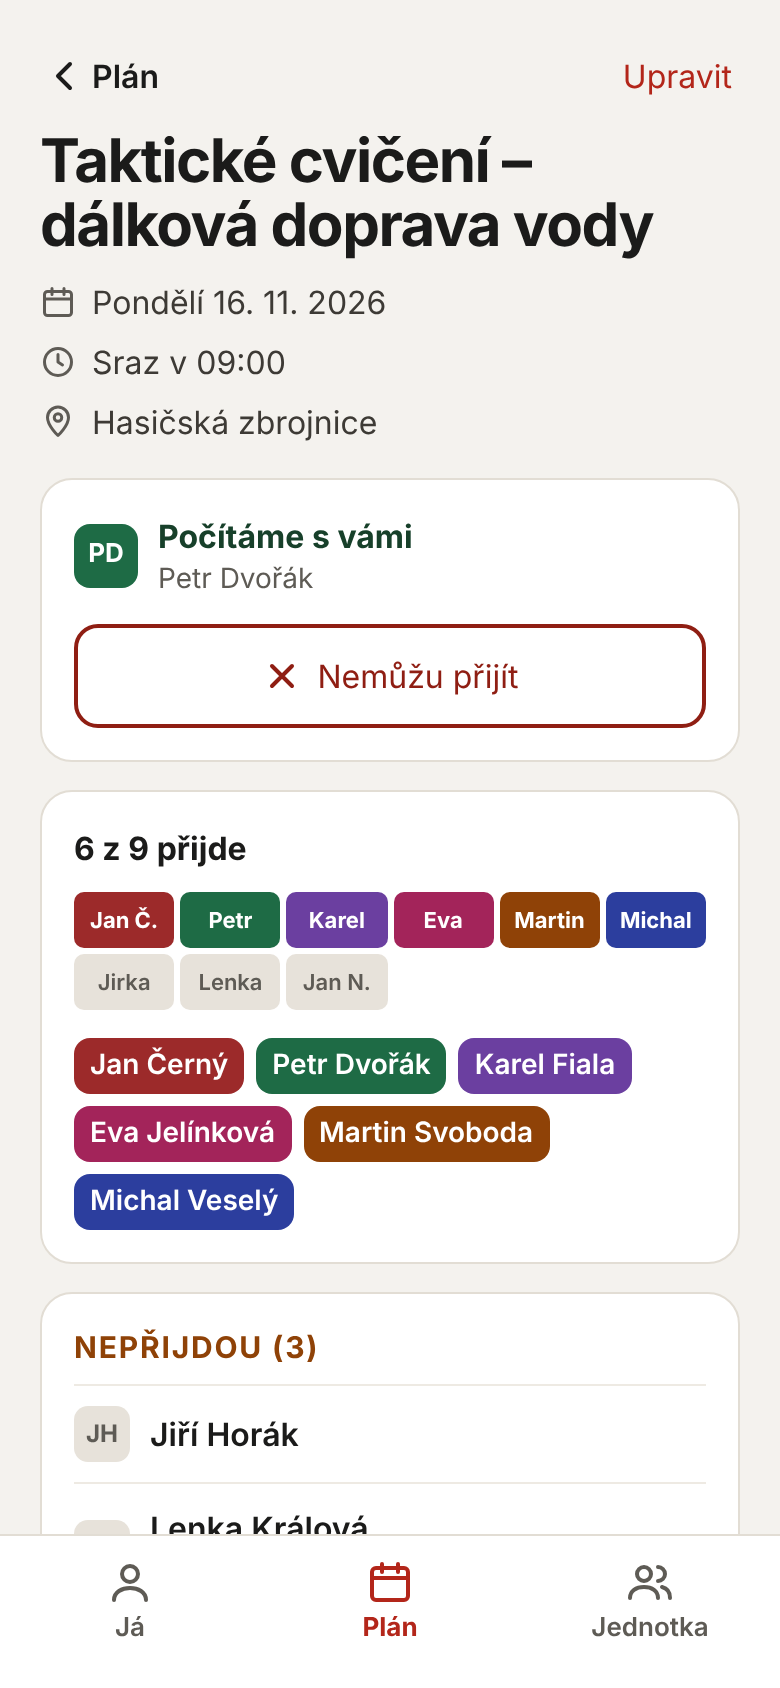
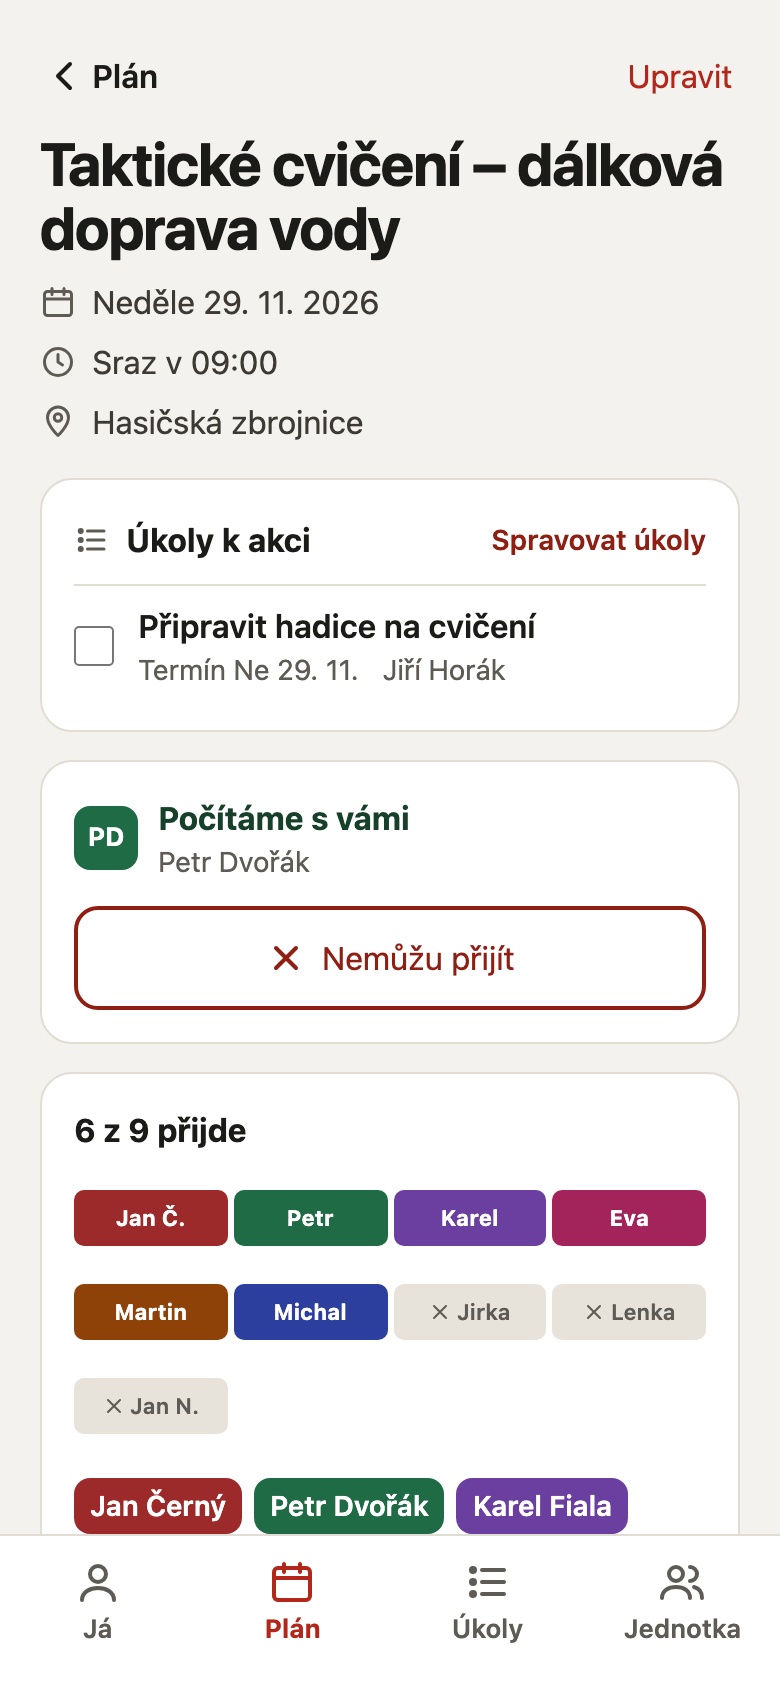
Show tasks on their due dates

diff --git a/src/routes/akce/[id]/+page.svelte b/src/routes/akce/[id]/+page.svelte
@@ -5,8 +5,6 @@
 	import { access } from '#lib/access.svelte.js';
 	import { contrastText, initials } from '#lib/colors.js';
 	import { data } from '#lib/data.svelte.js';
-	import type { Todo } from '#lib/todo.js';
-	import { toggleTodo } from '#lib/todo-actions.js';
 	import { formatLong, OPEN_END, formatShort, todayKey } from '#lib/dates.js';
 	import { describe, lastDay, nextAfter, WEEKLY } from '#lib/repeat.js';
 	import { toasts } from '#lib/toast.svelte.js';
@@ -14,6 +12,7 @@
 	import { toggleMemberDay } from '#lib/toggleDay.js';
 	import EventForm from '#lib/components/EventForm.svelte';
 	import Icon from '#lib/components/Icon.svelte';
+	import TodoChecklist from '#lib/components/TodoChecklist.svelte';
 
 	const ev = $derived(data.event(page.params.id ?? ''));
 	const activityTodos = $derived(
@@ -60,19 +59,6 @@
 		(editOccurrence ? occurrenceButton ?? editButton : editButton)?.focus();
 	}
 	let busy = $state(false);
-	let pendingTodos = $state<Record<string, boolean>>({});
-
-	async function setTodoCompleted(todo: Todo, checkbox: HTMLInputElement) {
-		const completed = checkbox.checked;
-		pendingTodos[todo.id] = completed;
-		try {
-			if (!await toggleTodo(todo, completed)) checkbox.checked = todo.completed;
-		} finally {
-			delete pendingTodos[todo.id];
-			await tick();
-			if (document.activeElement === document.body && checkbox.isConnected) checkbox.focus();
-		}
-	}
 
 	async function cannotCome() {
 		if (!ev || !me) return;
@@ -235,47 +221,12 @@
 		</section>
 
 		<div class="flex flex-col gap-3.5 px-5 pb-8">
-			<section aria-labelledby="activity-todos-heading" class="rounded-2xl border border-line bg-surface px-4 pt-2 pb-3">
-				<div class="flex flex-wrap items-center justify-between gap-x-3">
-					<h2 id="activity-todos-heading" class="flex items-center gap-2 font-bold">
-						<Icon name="list" size={18} class="text-muted" /> Úkoly k akci
-					</h2>
-					<a href="/ukoly?akce={encodeURIComponent(ev.id)}"
-						class="inline-flex min-h-11 items-center text-sm font-semibold text-accent-dark">
-						Spravovat úkoly
-					</a>
-				</div>
-				{#if data.todosStatus === 'loading'}
-					<p role="status" class="text-sm text-muted">Načítám úkoly…</p>
-				{:else if data.todosStatus === 'error'}
-					<p role="status" class="text-sm text-accent-dark">Úkoly se nepodařilo načíst.</p>
-				{:else if !activityTodos.length}
-					<p class="text-sm text-muted">K této akci zatím nejsou žádné úkoly.</p>
-				{:else}
-					<ul class="divide-y divide-line border-t border-line">
-						{#each activityTodos as todo (todo.id)}
-							{@const completed = pendingTodos[todo.id] ?? todo.completed}
-							{@const member = data.allMembers.find((member) => member.id === todo.assigneeId)}
-							<li>
-								<label class="flex min-h-12 items-center gap-3 py-2">
-									<input type="checkbox" checked={completed} disabled={todo.id in pendingTodos}
-										class="size-5 shrink-0 accent-accent-dark disabled:opacity-60"
-										onchange={(event) => setTodoCompleted(todo, event.currentTarget)} />
-									<span class="min-w-0">
-										<span class="block break-words font-semibold" class:line-through={completed} class:text-muted={completed}>{todo.title}</span>
-										{#if todo.dueDate || todo.assigneeId}
-											<span class="flex flex-wrap gap-x-3 text-sm text-muted">
-												{#if todo.dueDate}<span>Termín {formatShort(todo.dueDate)}</span>{/if}
-												{#if todo.assigneeId}<span>{member?.name ?? 'Bývalý člen'}</span>{/if}
-											</span>
-										{/if}
-									</span>
-								</label>
-							</li>
-						{/each}
-					</ul>
-				{/if}
-			</section>
+			<TodoChecklist
+				title="Úkoly k akci"
+				href="/ukoly?akce={encodeURIComponent(ev.id)}"
+				empty="K této akci zatím nejsou žádné úkoly."
+				todos={activityTodos}
+			/>
 
 			{#if me && !past}
 				{#if !myAbsence}

diff --git a/src/lib/components/TodoChecklist.svelte b/src/lib/components/TodoChecklist.svelte
@@ -1,0 +1,69 @@
+<script lang="ts">
+	import { data } from '#lib/data.svelte.js';
+	import { formatShort } from '#lib/dates.js';
+	import { toggleTodo } from '#lib/todo-actions.js';
+	import type { Todo } from '#lib/todo.js';
+	import Icon from './Icon.svelte';
+
+	let { title, heading = 'h2', href, empty, todos }: {
+		title: string;
+		heading?: 'h2' | 'h3';
+		href: string;
+		empty: string;
+		todos: readonly Todo[];
+	} = $props();
+
+	const headingId = $props.id();
+	let pending = $state<Record<string, boolean>>({});
+
+	async function setCompleted(todo: Todo, checkbox: HTMLInputElement) {
+		const completed = checkbox.checked;
+		pending[todo.id] = completed;
+		try {
+			if (!await toggleTodo(todo, completed)) checkbox.checked = todo.completed;
+		} finally {
+			delete pending[todo.id];
+		}
+	}
+</script>
+
+<section aria-labelledby={headingId} class="rounded-2xl border border-line bg-surface px-4 pt-2 pb-3">
+	<div class="flex flex-wrap items-center justify-between gap-x-3">
+		<svelte:element this={heading} id={headingId} class="flex items-center gap-2 font-bold">
+			<Icon name="list" size={18} class="text-muted" /> {title}
+		</svelte:element>
+		<a {href} class="inline-flex min-h-11 items-center text-sm font-semibold text-accent-dark">
+			Spravovat úkoly
+		</a>
+	</div>
+	{#if data.todosStatus === 'loading'}
+		<p role="status" class="text-sm text-muted">Načítám úkoly…</p>
+	{:else if data.todosStatus === 'error'}
+		<p role="status" class="text-sm text-accent-dark">Úkoly se nepodařilo načíst.</p>
+	{:else if !todos.length}
+		<p class="text-sm text-muted">{empty}</p>
+	{:else}
+		<ul class="divide-y divide-line border-t border-line">
+			{#each todos as todo (todo.id)}
+				{@const completed = pending[todo.id] ?? todo.completed}
+				{@const member = data.allMembers.find((member) => member.id === todo.assigneeId)}
+				<li>
+					<label class="flex min-h-12 items-center gap-3 py-2">
+						<input type="checkbox" checked={completed} disabled={todo.id in pending}
+							class="size-5 shrink-0 accent-accent-dark disabled:opacity-60"
+							onchange={(event) => setCompleted(todo, event.currentTarget)} />
+						<span class="min-w-0">
+							<span class="block break-words font-semibold" class:line-through={completed} class:text-muted={completed}>{todo.title}</span>
+							{#if todo.dueDate || todo.assigneeId}
+								<span class="flex flex-wrap gap-x-3 text-sm text-muted">
+									{#if todo.dueDate}<span>Termín {formatShort(todo.dueDate)}</span>{/if}
+									{#if todo.assigneeId}<span>{member?.name ?? 'Bývalý člen'}</span>{/if}
+								</span>
+							{/if}
+						</span>
+					</label>
+				</li>
+			{/each}
+		</ul>
+	{/if}
+</section>

diff --git a/src/routes/+page.svelte b/src/routes/+page.svelte
@@ -387,6 +387,7 @@
 {#snippet dayRow(key: DateKey)}
 	{@const av = data.availability(key)}
 	{@const evs = data.eventsOn(key)}
+	{@const todos = data.todosOn(key)}
 	{@const hol = holiday(key)}
 	{@const wd = weekdayIndex(key)}
 	{@const red = wd >= 5 || !!hol}
@@ -405,7 +406,9 @@
 		<button
 			type="button"
 			aria-expanded={key === selected}
-			aria-label="{desktop ? DOW_LONG[wd] : DOW_SHORT[wd]} {formatDayMonth(key)}: může {av.available.length} z {av.total}. Otevřít den."
+			aria-label="{desktop ? DOW_LONG[wd] : DOW_SHORT[wd]} {formatDayMonth(key)}: může {av.available.length} z {av.total}.{todos.length
+				? ` Úkoly: ${todos.map((todo) => todo.title).join(', ')}.`
+				: ''} Otevřít den."
 			style:scroll-margin-block-start="var(--stick-day)"
 			class="flex min-h-11 w-10 shrink-0 flex-col items-center lg:w-[6.25rem] lg:flex-row lg:gap-2">
 			<span
@@ -447,6 +450,12 @@
 								><span class="font-semibold">{ev.title}</span
 								>{#if ev.place}<span class="font-normal">{` · ${ev.place}`}</span>{/if}</span
 							>
+						</span>
+					{/each}
+					{#each todos as todo (todo.id)}
+						<span class="flex max-w-full items-center gap-2 self-start rounded-lg border border-line bg-ground px-2.5 py-1 text-ink-2">
+							<Icon name="list" size={16} />
+							<span class="line-clamp-2 text-sm leading-snug font-semibold" class:line-through={todo.completed}>{todo.title}</span>
 						</span>
 					{/each}
 				</span>
@@ -623,6 +632,7 @@
 				<span class="flex items-center gap-1.5"
 					><span class="size-3.5 rounded-full border border-line bg-weekend"></span>víkend a svátek</span
 				>
+				<span class="flex items-center gap-1.5"><Icon name="list" size={16} /> úkoly</span>
 			{:else}
 				<span class="flex items-center gap-1.5"><span class="size-3.5 rounded bg-[#1F4E8C]"></span>může</span>
 				<span class="flex items-center gap-1.5"><span class="size-3.5 rounded bg-off"></span>nepřítomen</span>

diff --git a/src/lib/data.svelte.ts b/src/lib/data.svelte.ts
@@ -258,6 +258,19 @@ class Data {
 	absences = $state<Absence[]>([]);
 	todos = $state<Todo[]>([]);
 	todosStatus = $state<'loading' | 'ready' | 'error'>('loading');
+	#todosByDay = $derived.by(() => {
+		const byDay = new Map<DateKey, Todo[]>();
+		const sorted = [...this.todos].sort((a, b) => a.title.localeCompare(b.title, 'cs'));
+		for (const todo of sorted) {
+			for (const day of new Set([todo.date, todo.dueDate])) {
+				if (!day) continue;
+				const items = byDay.get(day);
+				if (items) items.push(todo);
+				else byDay.set(day, [todo]);
+			}
+		}
+		return byDay;
+	});
 	/** Events stored one by one (one-off, or a repeat edited on its own). */
 	stored = $state<Event[]>([]);
 	series = $state<Series[]>([]);
@@ -334,10 +347,12 @@ class Data {
 		absences: Absence[];
 		events: Event[];
 		series: Series[];
+		todos: Todo[];
 		places?: string[];
 		defaultPlace?: string;
 	}) {
 		this.#demo = true;
+		this.todos = sample.todos;
 		this.todosStatus = 'ready';
 		this.defaultPlaces = sample.places ?? [];
 		this.defaultPlace = sample.defaultPlace ?? '';
@@ -524,6 +539,10 @@ class Data {
 			...this.stored.filter((e) => e.date === day),
 			...this.series.filter((s) => occurs(s, day)).map((s) => occurrence(s, day))
 		].sort(byDateTime);
+	}
+
+	todosOn(day: DateKey): readonly Todo[] {
+		return this.#todosByDay.get(day) ?? [];
 	}
 
 	/** The weekly repeat `ev` belongs to, if it is still part of it. */

diff --git a/src/lib/components/CalendarView.svelte b/src/lib/components/CalendarView.svelte
@@ -76,6 +76,7 @@
 {#snippet day(key: DateKey)}
 	{@const av = data.availability(key)}
 	{@const evs = data.eventsOn(key)}
+	{@const todos = data.todosOn(key)}
 	{@const hol = holiday(key)}
 	{@const wd = weekdayIndex(key)}
 	{@const pct = av.total ? (av.available.length / av.total) * 100 : 0}
@@ -141,8 +142,19 @@
 				{evs.length}<span class="sr-only">, akce: {evs.map((event) => event.title).join(', ')}</span>
 			</span>
 		{/if}
+		{#if todos.length}
+			<span class="flex items-center gap-0.5 text-xs font-semibold text-ink-2 lg:hidden" aria-hidden="true">
+				<Icon name="list" size={12} /> {todos.length}
+			</span>
+			<span class="hidden w-full items-center gap-1 rounded-md bg-ground px-1 text-left text-xs font-semibold text-ink-2 lg:flex" aria-hidden="true">
+				<Icon name="list" size={12} />
+				<span class="min-w-0 flex-1 truncate" class:line-through={todos[0].completed}>{todos[0].title}</span>
+				{#if todos.length > 1}<span>+{todos.length - 1}</span>{/if}
+			</span>
+		{/if}
 		<span class="sr-only">
 			{DOW_LONG[wd]} {formatDayMonth(key)}. Dostupní členové: {av.available.length} z {av.total}.
+			{#if todos.length}Úkoly: {todos.map((todo) => todo.title).join(', ')}.{/if}
 		</span>
 	</button>
 {/snippet}

diff --git a/src/lib/demo.ts b/src/lib/demo.ts
@@ -4,6 +4,7 @@
 import { PALETTE } from './colors.js';
 import type { Absence, Event, Member, Series } from './data.svelte.js';
 import { addDays, OPEN_END, todayKey } from './dates.js';
+import type { Todo } from './todo.js';
 
 export function isDemo(url: URL): boolean {
 	return import.meta.env.DEV && url.searchParams.has('demo');
@@ -14,6 +15,7 @@ export function demoData(count = 10): {
 	absences: Absence[];
 	events: Event[];
 	series: Series[];
+	todos: Todo[];
 	places: string[];
 	defaultPlace: string;
 } {
@@ -92,6 +94,10 @@ export function demoData(count = 10): {
 			repeat: { freq: 'month', every: 1, nth: 1, kind: 4 }
 		}
 	];
+	const todos: Todo[] = [
+		{ id: 't1', title: 'Zkontrolovat lékárničku', date: null, eventId: null, dueDate: d(0), assigneeId: 'm2', completed: false },
+		{ id: 't2', title: 'Připravit hadice na cvičení', date: null, eventId: 'e1', dueDate: d(10), assigneeId: 'm4', completed: false }
+	];
 	const places = ['Hasičská zbrojnice', 'Klubovna', 'Hřiště u školy'];
-	return { members, absences, events, series, places, defaultPlace: places[0] };
+	return { members, absences, events, series, todos, places, defaultPlace: places[0] };
 }

diff --git a/src/lib/components/DayPanel.svelte b/src/lib/components/DayPanel.svelte
@@ -8,6 +8,7 @@
 	import AvailabilityBar from './AvailabilityBar.svelte';
 	import EventForm, { type SaveOptions } from './EventForm.svelte';
 	import Icon from './Icon.svelte';
+	import TodoChecklist from './TodoChecklist.svelte';
 
 	let { day, onclose }: { day: DateKey; onclose: () => void } = $props();
 
@@ -60,11 +61,6 @@
 			<Icon name="x" size={22} stroke={2.2} />
 		</button>
 	</header>
-
-	<a class="flex min-h-11 items-center gap-2 self-start font-semibold text-accent-dark"
-		href="/ukoly?den={day}">
-		<Icon name="list" size={18} /> Úkoly na tento den
-	</a>
 
 	<section class="flex flex-col gap-2">
 		<span class="text-[1.0625rem] font-bold">{avail.available.length} z {total} může</span>
@@ -120,6 +116,14 @@
 			{/each}
 		</section>
 	{/if}
+
+	<TodoChecklist
+		title="Úkoly na tento den"
+		heading="h3"
+		href="/ukoly?den={day}"
+		empty="Na tento den nejsou žádné úkoly."
+		todos={data.todosOn(day)}
+	/>
 
 	<section class="flex flex-col gap-3 border-t border-line-soft pt-3.5">
 		<h3 class="text-[1.0625rem] font-bold">Nová akce v tento den</h3>

diff --git a/src/routes/ukoly/+page.svelte b/src/routes/ukoly/+page.svelte
@@ -72,10 +72,12 @@
 			? [selected, ...events]
 			: events;
 	});
+	const scopedTodos = $derived(
+		eventId ? data.todos.filter((todo) => todo.eventId === eventId) : date ? data.todosOn(date) : data.todos
+	);
 	const visible = $derived(
-		data.todos
-			.filter((todo) => todo.completed === completed &&
-				(eventId ? todo.eventId === eventId : date ? todo.date === date : true))
+		scopedTodos
+			.filter((todo) => todo.completed === completed)
 			.sort((a, b) =>
 				(a.dueDate ?? '9999-12-31').localeCompare(b.dueDate ?? '9999-12-31') ||
 				a.title.localeCompare(b.title, 'cs'))

diff --git a/README.md b/README.md
@@ -60,10 +60,11 @@ mají červené kolečko; když je v jeden den víc akcí, kolečko se rozdělí
 akce má svou barvu (stejná barevná tečka je u názvu akce v přehledu dne). Dnešek je
 v rámečku. Víkendy a státní svátky mají podbarvený
 vnitřek kroužku a červené číslo, na počítači je u svátku i jeho název. Klepnutím na den se otevře jeho přehled.
-Telefon si zvolené zobrazení zapamatuje.
+U dnů s úkoly je ikona seznamu. Telefon si zvolené zobrazení zapamatuje.
 
 **Den.** Klepnutím na den se otevře přehled: kdo může, kdo ne a proč (např.
 „Dovolená“). Tady jde jedním tlačítkem zapsat „Tento den nemůžu“ a založit novou akci.
+Úkoly můžete označit za hotové přímo v přehledu dne i v detailu akce.
 
 <p>
   <img src="docs/screenshots/telefon-den.png" width="260" alt="Detail dne">
@@ -78,7 +79,8 @@ každý měsíc, nebo podle vlastního pravidla (např. každý první pátek v 
 opakované akce jde přesunout nebo zrušit zvlášť. U akce je vidět, kdo přijde a kdo ne,
 a každý může klepnout na „Nemůžu přijít“.
 
-**Úkoly.** Úkolu můžete přiřadit termín, řešitele, den nebo akci. V poli
+**Úkoly.** Úkolu můžete přiřadit termín, řešitele, den nebo akci. V plánu se úkol
+zobrazí u termínu dokončení i u přiřazeného dne. V poli
 **Opakování úkolu** vyberte **Podle kalendáře** pro stejná pravidla jako u
 nepřítomností (např. každý první pátek v měsíci). Nebo vyberte **Po dokončení**
 a zadejte odstup, třeba 2 roky od poslední výměny oleje. Z každé řady je otevřený

diff --git a/AGENTS.md b/AGENTS.md
@@ -1,0 +1,5 @@
+# Repository instructions
+
+- At the start of each task in this repository, run `git fetch --prune origin` before editing. Check the working tree and build new work on the freshly fetched target branch. Use a separate worktree when needed to preserve existing changes.
+- For code or documentation changes, verify the work, commit it on a feature branch, push the branch, and open a pull request by default. If the task already has a pull request, update it. Follow any explicit instruction from the user to keep the work local.
+- Follow the project guidance in `CLAUDE.md` and `HANDOVER.md`.
